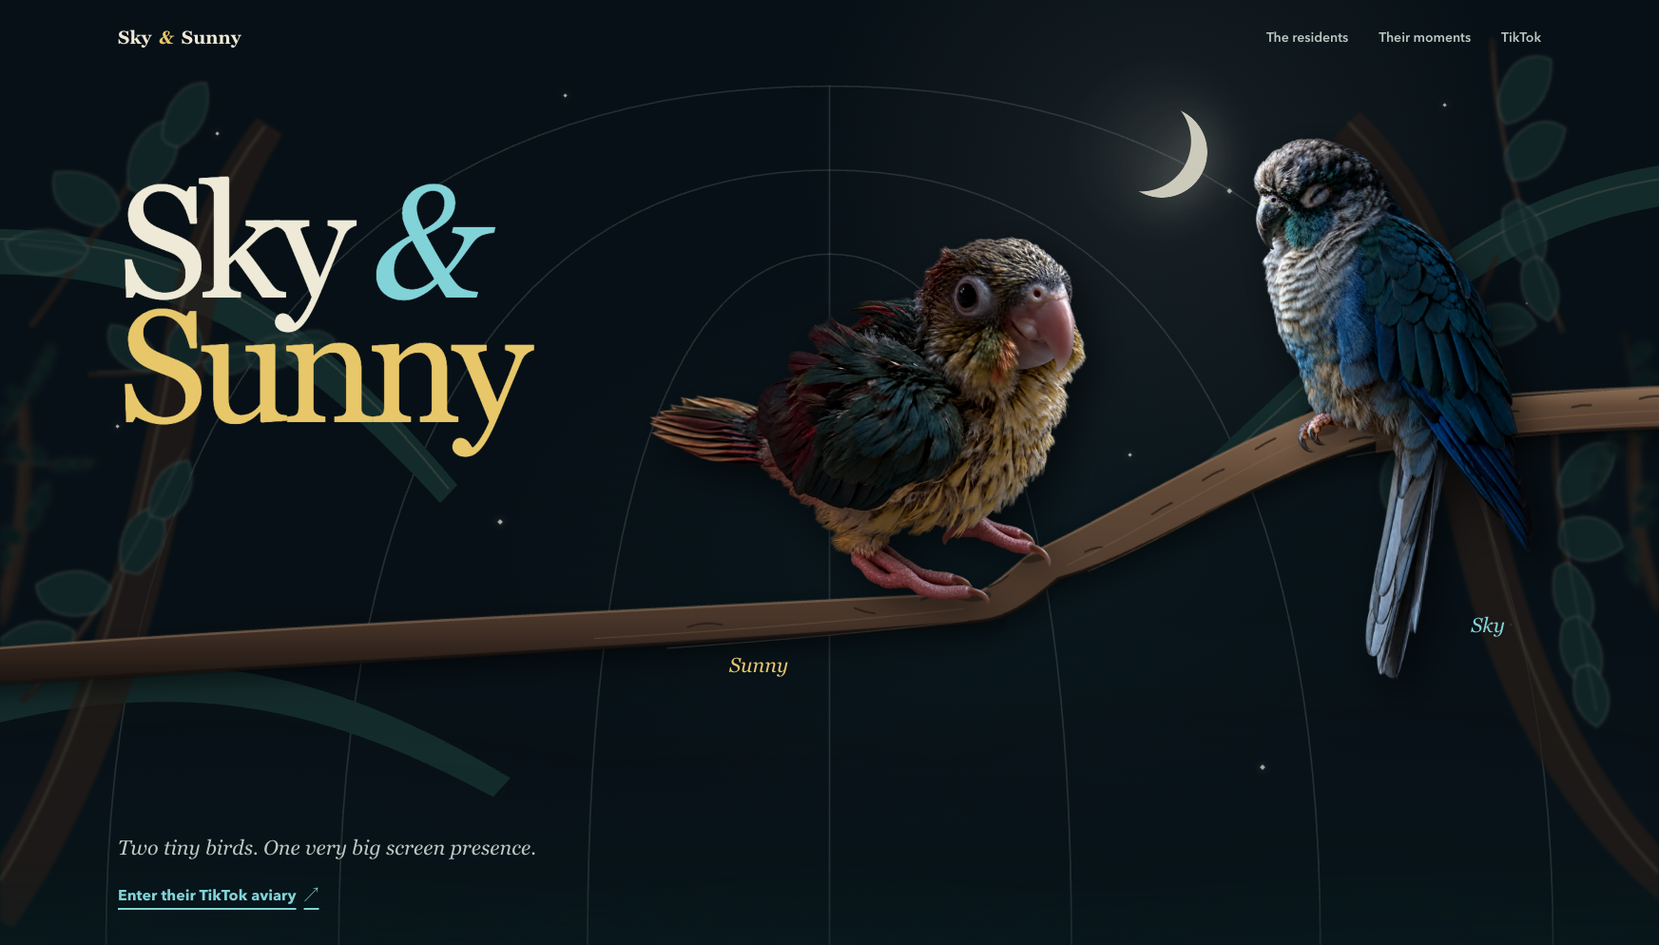
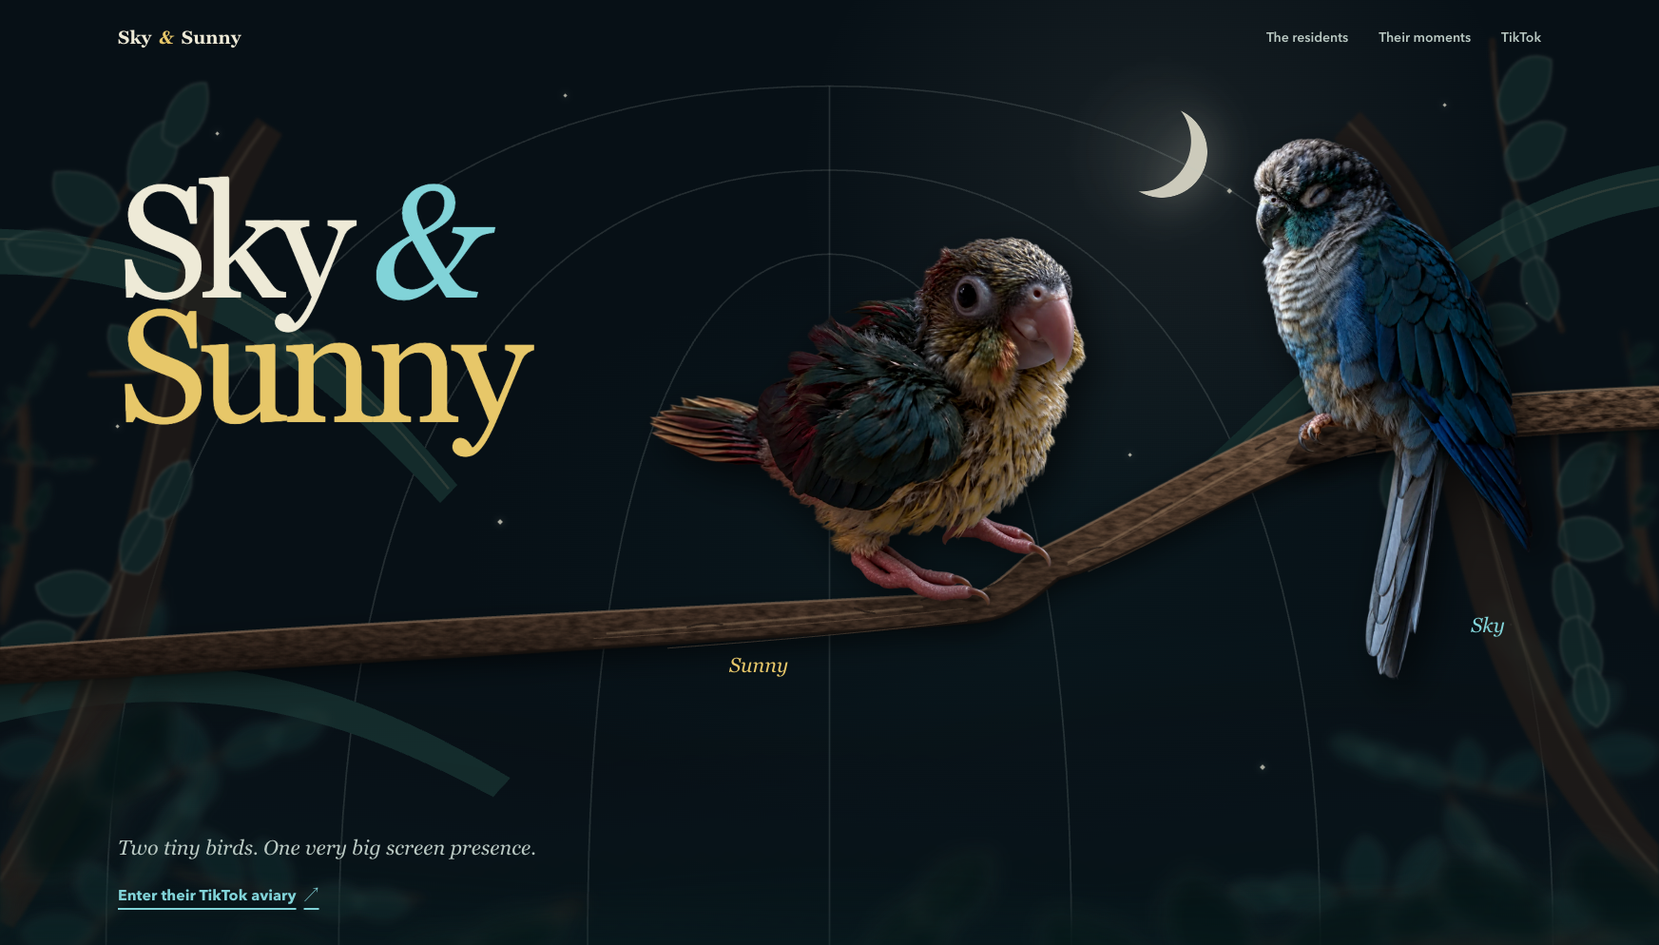
fix: deepen aviary bark and painted contact

diff --git a/index.html b/index.html
@@ -79,6 +79,22 @@
           <path class="back-branch" d="M-88 672C142 596 285 637 443 741L428 759C272 667 137 632 -88 716Z"></path>
           <path class="back-branch-light" d="M-32 228C146 220 261 290 389 465M1478 166C1295 181 1208 292 1040 462"></path>
         </svg>
+        <svg class="distant-undergrowth distant-undergrowth-left" viewBox="0 0 520 900" focusable="false">
+          <g>
+            <use href="#leaf-spray-c" x="-78" y="286" width="344" height="270" transform="rotate(-23 94 421)"></use>
+            <use href="#leaf-spray-a" x="104" y="398" width="318" height="252" transform="rotate(17 263 524)"></use>
+            <use href="#leaf-spray-b" x="-35" y="535" width="374" height="292" transform="rotate(-13 152 681)"></use>
+            <use href="#leaf-spray-c" x="235" y="558" width="330" height="258" transform="rotate(39 400 687)"></use>
+          </g>
+        </svg>
+        <svg class="distant-undergrowth distant-undergrowth-right" viewBox="0 0 520 900" focusable="false">
+          <g>
+            <use href="#leaf-spray-a" x="-56" y="322" width="330" height="258" transform="rotate(-19 109 451)"></use>
+            <use href="#leaf-spray-b" x="128" y="414" width="300" height="238" transform="rotate(24 278 533)"></use>
+            <use href="#leaf-spray-c" x="-42" y="558" width="370" height="288" transform="rotate(-17 143 702)"></use>
+            <use href="#leaf-spray-a" x="244" y="584" width="316" height="248" transform="rotate(37 402 708)"></use>
+          </g>
+        </svg>
       </div>
 
       <div class="habitat-plane canopy-middle" data-depth="2" aria-hidden="true">
@@ -118,6 +134,12 @@
                   <stop class="support-bark-mid-stop" offset="0.72"></stop>
                   <stop class="support-bark-highlight-stop" offset="1"></stop>
                 </linearGradient>
+                <filter id="sunny-bark-relief" x="-8%" y="-12%" width="116%" height="124%" color-interpolation-filters="sRGB">
+                  <feTurbulence type="fractalNoise" baseFrequency="0.025 0.075" numOctaves="4" seed="19" result="bark-noise"></feTurbulence>
+                  <feDisplacementMap in="SourceGraphic" in2="bark-noise" scale="5" xChannelSelector="R" yChannelSelector="B" result="bark-edge"></feDisplacementMap>
+                  <feColorMatrix in="bark-noise" type="matrix" values="0 0 0 0 .12 0 0 0 0 .08 0 0 0 0 .05 1.7 0 0 0 -.45" result="bark-tone"></feColorMatrix>
+                  <feComposite in="bark-tone" in2="bark-edge" operator="in"></feComposite>
+                </filter>
               </defs>
               <path class="support-shadow support-wide" clip-path="url(#sunny-wide-trim)" transform="translate(-5 10)" d="M-2200 1280C-1200 1200 -300 1160 980 1095C1040 1080 1100 1010 1150 975C1420 850 1850 620 2100 670C2320 650 2580 640 2800 650C2580 690 2320 720 2100 740C1850 760 1500 950 1230 1052C1160 1110 1090 1170 990 1180C300 1240 -900 1300 -2200 1380Z"></path>
               <path class="support-shadow support-intermediate" transform="translate(-5 10)" d="M-2200 1280C-1200 1200 -300 1160 980 1095C1040 1080 1100 1010 1150 975C1420 850 1850 620 2100 670C2300 760 2450 850 2600 926C2740 920 2890 900 3000 900C2860 940 2720 980 2600 1010C2450 930 2300 840 2100 790C1850 760 1500 950 1230 1052C1160 1110 1090 1170 990 1180C300 1240 -900 1300 -2200 1380Z"></path>
@@ -129,8 +151,14 @@
               <path id="sunny-intermediate-wood" class="support-wood support-intermediate" data-shared-support="sunny" data-internal-terminal="3000,900" d="M-2200 1280C-1200 1200 -300 1160 980 1095C1040 1080 1100 1010 1150 975C1420 850 1850 620 2100 670C2300 760 2450 850 2600 926C2740 920 2890 900 3000 900C2860 940 2720 980 2600 1010C2450 930 2300 840 2100 790C1850 760 1500 950 1230 1052C1160 1110 1090 1170 990 1180C300 1240 -900 1300 -2200 1380Z"></path>
               <path id="sunny-connector-wide-wood" class="support-wood support-connector support-connector-wide" data-shared-support="connector" d="M1150 975C1420 850 1780 620 2110 510L2200 640C1800 750 1500 980 1230 1052C1200 1060 1170 1020 1150 975Z"></path>
               <path id="sunny-connector-tablet-wood" class="support-wood support-connector support-connector-tablet" data-shared-support="connector" d="M1150 975C1260 910 1500 650 1750 520L1900 620C1700 700 1430 880 1230 1052C1200 1060 1170 1020 1150 975Z"></path>
-              <path class="support-unified support-unified-wide" d="M-2200 1280C-1200 1200 -300 1160 980 1095C1040 1080 1100 1010 1150 975C1420 850 1780 620 2110 510L2200 640C1800 750 1500 980 1230 1052C1160 1110 1090 1170 990 1180C300 1240 -900 1300 -2200 1380Z"></path>
-              <path class="support-unified support-unified-tablet" d="M-2200 1280C-1200 1200 -300 1160 980 1095C1040 1080 1100 1010 1150 975C1260 910 1500 650 1750 520L1900 620C1700 700 1430 880 1230 1052C1160 1110 1090 1170 990 1180C300 1240 -900 1300 -2200 1380Z"></path>
+              <path id="sunny-unified-wide" class="support-unified support-unified-wide" d="M-2200 1280C-1200 1200 -300 1160 980 1095C1040 1080 1100 1010 1150 975C1420 850 1780 620 2110 510L2200 640C1800 750 1500 980 1230 1052C1160 1110 1090 1170 990 1180C300 1240 -900 1300 -2200 1380Z"></path>
+              <path id="sunny-unified-tablet" class="support-unified support-unified-tablet" d="M-2200 1280C-1200 1200 -300 1160 980 1095C1040 1080 1100 1010 1150 975C1260 910 1500 650 1750 520L1900 620C1700 700 1430 880 1230 1052C1160 1110 1090 1170 990 1180C300 1240 -900 1300 -2200 1380Z"></path>
+              <use class="support-bark-texture support-bark-texture-unified support-unified-wide" href="#sunny-unified-wide"></use>
+              <use class="support-bark-texture support-bark-texture-unified support-unified-tablet" href="#sunny-unified-tablet"></use>
+              <use class="support-bark-texture support-bark-texture-mobile support-wide" href="#sunny-wide-wood"></use>
+              <use class="support-bark-texture support-bark-texture-mobile support-intermediate" href="#sunny-intermediate-wood"></use>
+              <path class="support-irregular-highlight support-wide" d="M-120 1216C202 1191 522 1167 822 1136M1260 1004C1498 889 1770 700 2054 590"></path>
+              <path class="support-irregular-highlight support-intermediate" d="M-120 1216C202 1191 522 1167 822 1136M1252 1003C1474 841 1665 700 1874 606"></path>
               <path class="support-surface-edge support-wide" clip-path="url(#sunny-wide-trim)" d="M-2200 1280C-1200 1200 -300 1160 980 1095C1040 1080 1100 1010 1150 975"></path>
               <path class="support-surface-edge support-intermediate" d="M-2200 1280C-1200 1200 -300 1160 980 1095C1040 1080 1100 1010 1150 975C1420 850 1850 620 2100 670C2300 760 2450 850 2600 926C2740 920 2890 900 3000 900"></path>
               <path class="support-surface-edge support-connector support-connector-wide" d="M1150 975C1420 850 1780 620 2110 510"></path>
@@ -163,10 +191,21 @@
                   <stop class="support-bark-mid-stop" offset="0.72"></stop>
                   <stop class="support-bark-highlight-stop" offset="1"></stop>
                 </linearGradient>
+                <filter id="sky-bark-relief" x="-8%" y="-12%" width="116%" height="124%" color-interpolation-filters="sRGB">
+                  <feTurbulence type="fractalNoise" baseFrequency="0.028 0.08" numOctaves="4" seed="31" result="bark-noise"></feTurbulence>
+                  <feDisplacementMap in="SourceGraphic" in2="bark-noise" scale="5" xChannelSelector="R" yChannelSelector="B" result="bark-edge"></feDisplacementMap>
+                  <feColorMatrix in="bark-noise" type="matrix" values="0 0 0 0 .12 0 0 0 0 .08 0 0 0 0 .05 1.7 0 0 0 -.45" result="bark-tone"></feColorMatrix>
+                  <feComposite in="bark-tone" in2="bark-edge" operator="in"></feComposite>
+                </filter>
               </defs>
+              <path class="support-shadow" transform="translate(-5 10)" d="M258 930C278 882 314 840 350 824C404 811 466 804 526 794L526 882C468 895 421 909 378 924C332 933 292 935 258 930Z"></path>
               <path class="support-shadow" clip-path="url(#sky-painted-trim)" transform="translate(-5 10)" d="M300 850C320 840 340 830 350 824C620 760 980 730 1450 710L1450 825C980 842 650 870 378 924C340 900 320 875 300 850Z"></path>
+              <path id="sky-contact-saddle" class="support-wood support-contact-saddle" d="M258 930C278 882 314 840 350 824C404 811 466 804 526 794L526 882C468 895 421 909 378 924C332 933 292 935 258 930Z"></path>
               <path id="sky-support-wood" class="support-wood" clip-path="url(#sky-painted-trim)" data-shared-support="sky" d="M300 850C320 840 340 830 350 824C620 760 980 730 1450 710L1450 825C980 842 650 870 378 924C340 900 320 875 300 850Z"></path>
-              <path class="support-surface-edge" d="M650 758C820 738 1080 722 1450 710"></path>
+              <use class="support-bark-texture" href="#sky-contact-saddle"></use>
+              <use class="support-bark-texture" href="#sky-support-wood"></use>
+              <path class="support-irregular-highlight" d="M350 824C404 812 466 804 522 795M710 752C902 734 1130 720 1398 712"></path>
+              <path class="support-surface-edge" d="M350 824C404 811 466 804 526 794M650 758C820 738 1080 722 1450 710"></path>
               <path class="support-depth-edge" d="M650 870C840 850 1090 834 1450 825"></path>
               <path class="support-boundary" data-support-contour="sky" data-support-bird=".resident-sky .resident-cutout" data-support-anchors="350,824" d="M300 850C320 840 340 830 350 824C620 760 980 730 1450 710"></path>
               <path class="support-contact-shadow" clip-path="url(#sky-support-clip)" d="M302 835Q346 852 394 832"></path>
@@ -184,6 +223,15 @@
       </div>
 
       <div class="habitat-plane canopy-foreground" data-depth="4" data-entrance aria-hidden="true">
+        <svg class="foreground-undergrowth" viewBox="0 0 1440 460" preserveAspectRatio="none" focusable="false">
+          <g>
+            <use href="#leaf-spray-a" x="-120" y="92" width="420" height="328" transform="rotate(-19 90 256)"></use>
+            <use href="#leaf-spray-c" x="184" y="170" width="350" height="276" transform="rotate(13 359 308)"></use>
+            <use href="#leaf-spray-b" x="514" y="212" width="382" height="298" transform="rotate(-10 705 361)"></use>
+            <use href="#leaf-spray-a" x="858" y="170" width="360" height="282" transform="rotate(18 1038 311)"></use>
+            <use href="#leaf-spray-c" x="1170" y="84" width="420" height="328" transform="rotate(23 1380 248)"></use>
+          </g>
+        </svg>
         <svg class="front-foliage front-left" viewBox="0 0 540 900" focusable="false">
           <path class="branch-front" d="M-42 932C35 760 65 532 57 258L91 221C116 504 95 747 12 944Z"></path>
           <path class="branch-front-light" d="M-15 924C48 751 77 526 69 256"></path>

diff --git a/sandbox/night-aviary/index.html b/sandbox/night-aviary/index.html
@@ -79,6 +79,22 @@
           <path class="back-branch" d="M-88 672C142 596 285 637 443 741L428 759C272 667 137 632 -88 716Z"></path>
           <path class="back-branch-light" d="M-32 228C146 220 261 290 389 465M1478 166C1295 181 1208 292 1040 462"></path>
         </svg>
+        <svg class="distant-undergrowth distant-undergrowth-left" viewBox="0 0 520 900" focusable="false">
+          <g>
+            <use href="#leaf-spray-c" x="-78" y="286" width="344" height="270" transform="rotate(-23 94 421)"></use>
+            <use href="#leaf-spray-a" x="104" y="398" width="318" height="252" transform="rotate(17 263 524)"></use>
+            <use href="#leaf-spray-b" x="-35" y="535" width="374" height="292" transform="rotate(-13 152 681)"></use>
+            <use href="#leaf-spray-c" x="235" y="558" width="330" height="258" transform="rotate(39 400 687)"></use>
+          </g>
+        </svg>
+        <svg class="distant-undergrowth distant-undergrowth-right" viewBox="0 0 520 900" focusable="false">
+          <g>
+            <use href="#leaf-spray-a" x="-56" y="322" width="330" height="258" transform="rotate(-19 109 451)"></use>
+            <use href="#leaf-spray-b" x="128" y="414" width="300" height="238" transform="rotate(24 278 533)"></use>
+            <use href="#leaf-spray-c" x="-42" y="558" width="370" height="288" transform="rotate(-17 143 702)"></use>
+            <use href="#leaf-spray-a" x="244" y="584" width="316" height="248" transform="rotate(37 402 708)"></use>
+          </g>
+        </svg>
       </div>
 
       <div class="habitat-plane canopy-middle" data-depth="2" aria-hidden="true">
@@ -118,6 +134,12 @@
                   <stop class="support-bark-mid-stop" offset="0.72"></stop>
                   <stop class="support-bark-highlight-stop" offset="1"></stop>
                 </linearGradient>
+                <filter id="sunny-bark-relief" x="-8%" y="-12%" width="116%" height="124%" color-interpolation-filters="sRGB">
+                  <feTurbulence type="fractalNoise" baseFrequency="0.025 0.075" numOctaves="4" seed="19" result="bark-noise"></feTurbulence>
+                  <feDisplacementMap in="SourceGraphic" in2="bark-noise" scale="5" xChannelSelector="R" yChannelSelector="B" result="bark-edge"></feDisplacementMap>
+                  <feColorMatrix in="bark-noise" type="matrix" values="0 0 0 0 .12 0 0 0 0 .08 0 0 0 0 .05 1.7 0 0 0 -.45" result="bark-tone"></feColorMatrix>
+                  <feComposite in="bark-tone" in2="bark-edge" operator="in"></feComposite>
+                </filter>
               </defs>
               <path class="support-shadow support-wide" clip-path="url(#sunny-wide-trim)" transform="translate(-5 10)" d="M-2200 1280C-1200 1200 -300 1160 980 1095C1040 1080 1100 1010 1150 975C1420 850 1850 620 2100 670C2320 650 2580 640 2800 650C2580 690 2320 720 2100 740C1850 760 1500 950 1230 1052C1160 1110 1090 1170 990 1180C300 1240 -900 1300 -2200 1380Z"></path>
               <path class="support-shadow support-intermediate" transform="translate(-5 10)" d="M-2200 1280C-1200 1200 -300 1160 980 1095C1040 1080 1100 1010 1150 975C1420 850 1850 620 2100 670C2300 760 2450 850 2600 926C2740 920 2890 900 3000 900C2860 940 2720 980 2600 1010C2450 930 2300 840 2100 790C1850 760 1500 950 1230 1052C1160 1110 1090 1170 990 1180C300 1240 -900 1300 -2200 1380Z"></path>
@@ -129,8 +151,14 @@
               <path id="sunny-intermediate-wood" class="support-wood support-intermediate" data-shared-support="sunny" data-internal-terminal="3000,900" d="M-2200 1280C-1200 1200 -300 1160 980 1095C1040 1080 1100 1010 1150 975C1420 850 1850 620 2100 670C2300 760 2450 850 2600 926C2740 920 2890 900 3000 900C2860 940 2720 980 2600 1010C2450 930 2300 840 2100 790C1850 760 1500 950 1230 1052C1160 1110 1090 1170 990 1180C300 1240 -900 1300 -2200 1380Z"></path>
               <path id="sunny-connector-wide-wood" class="support-wood support-connector support-connector-wide" data-shared-support="connector" d="M1150 975C1420 850 1780 620 2110 510L2200 640C1800 750 1500 980 1230 1052C1200 1060 1170 1020 1150 975Z"></path>
               <path id="sunny-connector-tablet-wood" class="support-wood support-connector support-connector-tablet" data-shared-support="connector" d="M1150 975C1260 910 1500 650 1750 520L1900 620C1700 700 1430 880 1230 1052C1200 1060 1170 1020 1150 975Z"></path>
-              <path class="support-unified support-unified-wide" d="M-2200 1280C-1200 1200 -300 1160 980 1095C1040 1080 1100 1010 1150 975C1420 850 1780 620 2110 510L2200 640C1800 750 1500 980 1230 1052C1160 1110 1090 1170 990 1180C300 1240 -900 1300 -2200 1380Z"></path>
-              <path class="support-unified support-unified-tablet" d="M-2200 1280C-1200 1200 -300 1160 980 1095C1040 1080 1100 1010 1150 975C1260 910 1500 650 1750 520L1900 620C1700 700 1430 880 1230 1052C1160 1110 1090 1170 990 1180C300 1240 -900 1300 -2200 1380Z"></path>
+              <path id="sunny-unified-wide" class="support-unified support-unified-wide" d="M-2200 1280C-1200 1200 -300 1160 980 1095C1040 1080 1100 1010 1150 975C1420 850 1780 620 2110 510L2200 640C1800 750 1500 980 1230 1052C1160 1110 1090 1170 990 1180C300 1240 -900 1300 -2200 1380Z"></path>
+              <path id="sunny-unified-tablet" class="support-unified support-unified-tablet" d="M-2200 1280C-1200 1200 -300 1160 980 1095C1040 1080 1100 1010 1150 975C1260 910 1500 650 1750 520L1900 620C1700 700 1430 880 1230 1052C1160 1110 1090 1170 990 1180C300 1240 -900 1300 -2200 1380Z"></path>
+              <use class="support-bark-texture support-bark-texture-unified support-unified-wide" href="#sunny-unified-wide"></use>
+              <use class="support-bark-texture support-bark-texture-unified support-unified-tablet" href="#sunny-unified-tablet"></use>
+              <use class="support-bark-texture support-bark-texture-mobile support-wide" href="#sunny-wide-wood"></use>
+              <use class="support-bark-texture support-bark-texture-mobile support-intermediate" href="#sunny-intermediate-wood"></use>
+              <path class="support-irregular-highlight support-wide" d="M-120 1216C202 1191 522 1167 822 1136M1260 1004C1498 889 1770 700 2054 590"></path>
+              <path class="support-irregular-highlight support-intermediate" d="M-120 1216C202 1191 522 1167 822 1136M1252 1003C1474 841 1665 700 1874 606"></path>
               <path class="support-surface-edge support-wide" clip-path="url(#sunny-wide-trim)" d="M-2200 1280C-1200 1200 -300 1160 980 1095C1040 1080 1100 1010 1150 975"></path>
               <path class="support-surface-edge support-intermediate" d="M-2200 1280C-1200 1200 -300 1160 980 1095C1040 1080 1100 1010 1150 975C1420 850 1850 620 2100 670C2300 760 2450 850 2600 926C2740 920 2890 900 3000 900"></path>
               <path class="support-surface-edge support-connector support-connector-wide" d="M1150 975C1420 850 1780 620 2110 510"></path>
@@ -163,10 +191,21 @@
                   <stop class="support-bark-mid-stop" offset="0.72"></stop>
                   <stop class="support-bark-highlight-stop" offset="1"></stop>
                 </linearGradient>
+                <filter id="sky-bark-relief" x="-8%" y="-12%" width="116%" height="124%" color-interpolation-filters="sRGB">
+                  <feTurbulence type="fractalNoise" baseFrequency="0.028 0.08" numOctaves="4" seed="31" result="bark-noise"></feTurbulence>
+                  <feDisplacementMap in="SourceGraphic" in2="bark-noise" scale="5" xChannelSelector="R" yChannelSelector="B" result="bark-edge"></feDisplacementMap>
+                  <feColorMatrix in="bark-noise" type="matrix" values="0 0 0 0 .12 0 0 0 0 .08 0 0 0 0 .05 1.7 0 0 0 -.45" result="bark-tone"></feColorMatrix>
+                  <feComposite in="bark-tone" in2="bark-edge" operator="in"></feComposite>
+                </filter>
               </defs>
+              <path class="support-shadow" transform="translate(-5 10)" d="M258 930C278 882 314 840 350 824C404 811 466 804 526 794L526 882C468 895 421 909 378 924C332 933 292 935 258 930Z"></path>
               <path class="support-shadow" clip-path="url(#sky-painted-trim)" transform="translate(-5 10)" d="M300 850C320 840 340 830 350 824C620 760 980 730 1450 710L1450 825C980 842 650 870 378 924C340 900 320 875 300 850Z"></path>
+              <path id="sky-contact-saddle" class="support-wood support-contact-saddle" d="M258 930C278 882 314 840 350 824C404 811 466 804 526 794L526 882C468 895 421 909 378 924C332 933 292 935 258 930Z"></path>
               <path id="sky-support-wood" class="support-wood" clip-path="url(#sky-painted-trim)" data-shared-support="sky" d="M300 850C320 840 340 830 350 824C620 760 980 730 1450 710L1450 825C980 842 650 870 378 924C340 900 320 875 300 850Z"></path>
-              <path class="support-surface-edge" d="M650 758C820 738 1080 722 1450 710"></path>
+              <use class="support-bark-texture" href="#sky-contact-saddle"></use>
+              <use class="support-bark-texture" href="#sky-support-wood"></use>
+              <path class="support-irregular-highlight" d="M350 824C404 812 466 804 522 795M710 752C902 734 1130 720 1398 712"></path>
+              <path class="support-surface-edge" d="M350 824C404 811 466 804 526 794M650 758C820 738 1080 722 1450 710"></path>
               <path class="support-depth-edge" d="M650 870C840 850 1090 834 1450 825"></path>
               <path class="support-boundary" data-support-contour="sky" data-support-bird=".resident-sky .resident-cutout" data-support-anchors="350,824" d="M300 850C320 840 340 830 350 824C620 760 980 730 1450 710"></path>
               <path class="support-contact-shadow" clip-path="url(#sky-support-clip)" d="M302 835Q346 852 394 832"></path>
@@ -184,6 +223,15 @@
       </div>
 
       <div class="habitat-plane canopy-foreground" data-depth="4" data-entrance aria-hidden="true">
+        <svg class="foreground-undergrowth" viewBox="0 0 1440 460" preserveAspectRatio="none" focusable="false">
+          <g>
+            <use href="#leaf-spray-a" x="-120" y="92" width="420" height="328" transform="rotate(-19 90 256)"></use>
+            <use href="#leaf-spray-c" x="184" y="170" width="350" height="276" transform="rotate(13 359 308)"></use>
+            <use href="#leaf-spray-b" x="514" y="212" width="382" height="298" transform="rotate(-10 705 361)"></use>
+            <use href="#leaf-spray-a" x="858" y="170" width="360" height="282" transform="rotate(18 1038 311)"></use>
+            <use href="#leaf-spray-c" x="1170" y="84" width="420" height="328" transform="rotate(23 1380 248)"></use>
+          </g>
+        </svg>
         <svg class="front-foliage front-left" viewBox="0 0 540 900" focusable="false">
           <path class="branch-front" d="M-42 932C35 760 65 532 57 258L91 221C116 504 95 747 12 944Z"></path>
           <path class="branch-front-light" d="M-15 924C48 751 77 526 69 256"></path>

diff --git a/styles.css b/styles.css
@@ -14,6 +14,10 @@
   --color-bark-dark: #241c17;
   --color-bark-shadow: #17110e;
   --color-bark-edge: #846d58;
+  --color-bark-texture: rgba(25, 17, 12, 0.64);
+  --color-bark-ridge: rgba(197, 163, 126, 0.3);
+  --color-vegetation-distant: rgba(18, 54, 53, 0.54);
+  --color-vegetation-foreground: rgba(4, 20, 21, 0.9);
   --color-hero-haze-moon: rgba(238, 234, 215, 0.075);
   --color-hero-haze-canopy: rgba(20, 56, 59, 0.18);
   --color-hero-haze-foreground: rgba(8, 30, 31, 0.78);
@@ -68,6 +72,8 @@
   --blur-distant: 0.1rem;
   --blur-foreground: 0.2rem;
   --blur-star: 0.025rem;
+  --blur-undergrowth-distant: 0.34rem;
+  --blur-undergrowth-foreground: 0.58rem;
   --hero-wide-inset: 7.75rem;
   --hero-wide-moon-left: 70%;
   --layer-back: 1;
@@ -390,6 +396,25 @@ h3 {
   opacity: 0.72;
 }
 
+.distant-undergrowth {
+  position: absolute;
+  bottom: -9%;
+  width: min(39vw, 42rem);
+  height: 68%;
+  fill: var(--color-vegetation-distant);
+  filter: blur(var(--blur-undergrowth-distant));
+  opacity: 0.74;
+}
+
+.distant-undergrowth-left {
+  left: -7%;
+}
+
+.distant-undergrowth-right {
+  right: -7%;
+  transform: scaleX(-1);
+}
+
 .middle-foliage,
 .front-foliage {
   position: absolute;
@@ -559,6 +584,10 @@ h1 i {
   opacity: 0.72;
 }
 
+.support-wood {
+  fill: var(--color-bark);
+}
+
 .resident-sunny .support-wood {
   fill: url(#sunny-bark-gradient);
 }
@@ -569,6 +598,32 @@ h1 i {
 
 .resident-sunny .support-unified {
   fill: url(#sunny-bark-gradient);
+}
+
+.support-bark-texture {
+  fill: var(--color-bark-texture);
+  mix-blend-mode: multiply;
+  opacity: 0.94;
+  pointer-events: none;
+}
+
+.resident-sunny .support-bark-texture {
+  filter: url(#sunny-bark-relief);
+}
+
+.resident-sky .support-bark-texture {
+  filter: url(#sky-bark-relief);
+}
+
+.support-bark-texture-mobile {
+  display: none;
+}
+
+.support-irregular-highlight {
+  fill: none;
+  stroke: var(--color-bark-ridge);
+  stroke-linecap: round;
+  stroke-width: 7;
 }
 
 .support-unified-tablet {
@@ -753,6 +808,18 @@ h1 i {
     radial-gradient(ellipse at 89% 95%, var(--color-hero-haze-foreground), transparent 44%);
   content: "";
   filter: blur(var(--blur-foreground));
+}
+
+.foreground-undergrowth {
+  position: absolute;
+  right: -7%;
+  bottom: -18%;
+  left: -7%;
+  width: 114%;
+  height: 51%;
+  fill: var(--color-vegetation-foreground);
+  filter: blur(var(--blur-undergrowth-foreground));
+  opacity: 0.9;
 }
 
 .branch-front {
@@ -1234,6 +1301,13 @@ h3 {
     width: 46vw;
   }
 
+  .distant-undergrowth {
+    bottom: -3%;
+    width: 58vw;
+    height: 55%;
+    opacity: 0.6;
+  }
+
   .front-foliage {
     width: 7vw;
   }
@@ -1257,6 +1331,14 @@ h3 {
 
   .support-connector {
     display: none;
+  }
+
+  .support-bark-texture-unified {
+    display: none;
+  }
+
+  .support-bark-texture-mobile.support-wide {
+    display: block;
   }
 
   .support-unified {
